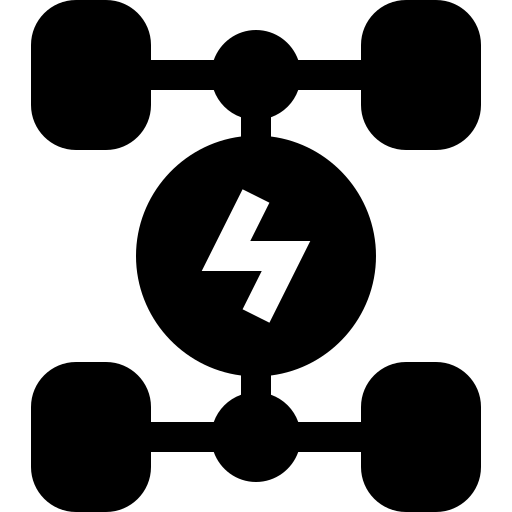
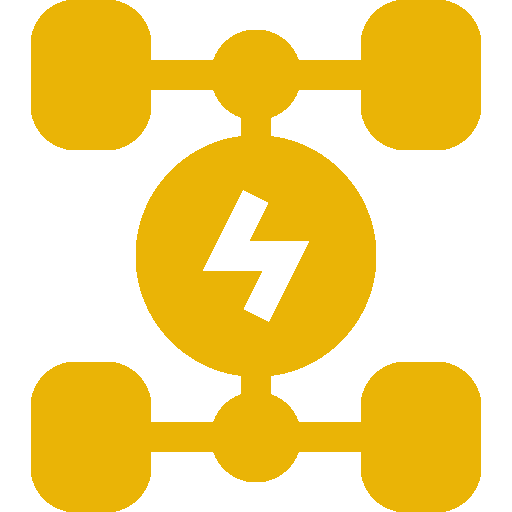
adding default pictures and some styling home page

diff --git a/views/default.jsx b/views/default.jsx
@@ -22,7 +22,7 @@ function Def(html) {
                                             <li class="menu-item"><a href='/'>Home</a></li>
                                             <li class="menu-item"><a href='inventory'>inventory</a></li>
                                             <li class="menu-item"><a href='/contact'>Contact us</a></li>
-                                            <li class="menu-item">  <a href=''>Appoitment</a></li>
+                                            {/* <li class="menu-item">  <a href=''>Appoitment</a></li> */}
                                             <li class="menu-item"> <a href="/login">Login</a></li>
                                             <li class="menu-item"><a href="/register">Sign Up</a></li>
 

diff --git a/views/contact.jsx b/views/contact.jsx
@@ -22,7 +22,7 @@ function contact() {
                                                         <img id="fc-sumbul" src="https://carrier.formcarry.com/demo-assets/sumbul-wave.png" alt="Yo 👋" width="120"/>
                                                             
                                                             
-                                                            <p>Submit the form down below, you'll see the message in your dashboard.</p>
+                                                        <p>Submit the form down below, you'll see the message in your dashboard.</p>
                                                     </div>
 
                                                     <section class="formcarry-container">

diff --git a/controllers/inventory.js b/controllers/inventory.js
@@ -30,6 +30,7 @@ router.get('/:id', (req, res) => {
   .then((inventory)=>{
     res.render('inventory/show', {inventory})
     console.log(req.params.id)
+  
   })
   .catch((err =>{
     console.log('err', err)
@@ -39,25 +40,6 @@ router.get('/:id', (req, res) => {
 
 
 
-router.put('/:id', (req, res) => {
-  res.send('PUT /places/:id stub')
-})
-
-router.delete('/:id', (req, res) => {
-  res.send('DELETE /places/:id stub')
-})
-
-router.get('/:id/edit', (req, res) => {
-  res.send('GET edit form stub')
-})
-
-router.post('/:id/rant', (req, res) => {
-  res.send('GET /places/:id/rant stub')
-})
-
-router.delete('/:id/rant/:rantId', (req, res) => {
-    res.send('GET /places/:id/rant/:rantId stub')
-})
 
 module.exports = router
 

diff --git a/public/css/inventory.css b/public/css/inventory.css
@@ -1,7 +1,7 @@
 body{
-    background-color: azure;
+    background-color: #04080e;
     font-family: 'Times New Roman', Times, serif;
-  
+   
    
 }
 
@@ -19,13 +19,13 @@ body{
 display: flex;
 justify-content: center;   
 margin-top: 50px;
-background-color: azure;
+background-color: #04080e;
 border: 1px solid;
-filter: drop-shadow(3px 3px 25px black);
+filter: drop-shadow(3px 3px 5px #eab406);
 border-radius: 20px;
 padding-top: 20px;
 padding-bottom: 20px;
-
+color: #eab406;
 
 width: 1100px;
 
@@ -42,7 +42,7 @@ width: 1100px;
 .img{
     width: 400px;
     border-radius: 10px;
-    filter: drop-shadow(3px 3px 15px black);
+    filter: drop-shadow(3px 3px 5px #eab406);
 
 }
 

diff --git a/views/home.jsx b/views/home.jsx
@@ -4,9 +4,20 @@ import Def from './default'
 function home () {
     return (
       <Def>
-          <main>
-              <h1>HOME</h1>
-          </main>
+         
+         <html lang="en">
+         <head>
+          <meta charset="UTF-8" />
+          <meta http-equiv="X-UA-Compatible" content="IE=edge" />
+          <meta name="viewport" content="width=device-width, initial-scale=1.0" />
+          <link rel="stylesheet" href="/css/home.css" />
+
+          <title>Document</title>
+         </head>
+         <body>
+          
+         </body>
+         </html>
       </Def>
     )
   }

diff --git a/public/css/default.css b/public/css/default.css
@@ -10,7 +10,7 @@
 
   z-index: 1;
   filter: drop-shadow(4px 4px 30px black);
-  
+  opacity: 0.9;
   
 }
 
@@ -30,9 +30,11 @@
 body{
   margin: 0px;
   margin-bottom: 1050px;
-  background-color: azure;
- 
-  
+  background-color: #04080e;
+
+  background-image: url("../home_background.jpg");
+  background-size: 100% ;
+  background-repeat: no-repeat;
 
 }
 
@@ -41,6 +43,8 @@ body{
 .car_mart_logo{
   display: flex;
   width: 290px;
+ 
+
 
 }
 
@@ -51,9 +55,6 @@ body{
 
 
   
-
-
-
 
 
 
@@ -63,6 +64,7 @@ body{
   height: 4rem;
  
 }
+
 .menu ol {
   list-style-type: none;
   margin: 10px;

diff --git a/public/css/register.css b/public/css/register.css
@@ -1,4 +1,18 @@
   
+  html body{
+    background-color: #04080e;
+  }
+  .card-body .px-4, .py-5 .px-md-5{
+    background-color: #04080e;
+  border-radius: 0px;
+  }
+  
+  .my-5, .display-5, .fw-bold, .ls-tight{
+
+    color: #eab406;
+  
+  }
+  
   .menu-item a {
     font-family: 'Times New Roman', Times, serif;
     color: rgba(255,196,0,255);
@@ -16,3 +30,7 @@
     color: rgb(248, 198, 61);
 
   }
+
+  main{
+    background-color: azure;  
+}

diff --git a/models/inventory.js b/models/inventory.js
@@ -1,6 +1,6 @@
 const mongoose = require('mongoose')
 
-const placeSchema = new mongoose.Schema({
+const inventorySchema = new mongoose.Schema({
 
     make: {type:String},
     model: {type:String},
@@ -45,5 +45,5 @@ const placeSchema = new mongoose.Schema({
     
 })
 
-module.exports = mongoose.model("Inventory", placeSchema)
+module.exports = mongoose.model("Inventory", inventorySchema)
 

diff --git a/public/css/login.css b/public/css/login.css
@@ -1,5 +1,14 @@
 
-  
+  html body{
+    background-color: #04080e;
+  }
+
+.card-body .px-4, .py-5 .px-md-5{
+  background-color: #04080e;
+border-radius: 0px;
+}
+
+
   .menu-item a {
     font-family: 'Times New Roman', Times, serif;
     color: rgba(255,196,0,255);
@@ -16,3 +25,9 @@
     color: rgb(248, 198, 61);
 
   }
+
+.my-5, .display-5, .fw-bold, .ls-tight{
+
+  color: #eab406;
+
+}

diff --git a/public/css/show.css b/public/css/show.css
@@ -1,12 +1,15 @@
 
  
 
-  body{
-    font-family: 'Times New Roman', Times, serif;
-    background-color: azure;
-    margin-bottom: 100px;
+    body {
+      font-family: 'Times New Roman', Times, serif;
   
-  }
+      background-color: #04080e;
+      color: #eab406;
+      margin-bottom: 100px;
+  
+  
+    }
   
   .menu-item a {
 

diff --git a/public/css/contact.css b/public/css/contact.css
@@ -2,7 +2,20 @@
     z-index: 3;
 }
 
-  
+html{
+  height: 100%;
+}
+
+body{
+  background-color: #04080e;
+  color: #eab406;
+
+
+}
+.form-introduction p{
+  color: #eab406;
+  font-size: 20px;
+}
   .container {
     position: relative;
     display: flex;

diff --git a/public/css/home.css b/public/css/home.css
@@ -1,0 +1,7 @@
+body{
+    background-image: url("../home_background.jpg");
+    background-size: 100% ;
+    background-repeat: no-repeat;
+    background-color: #04080e;
+
+}
